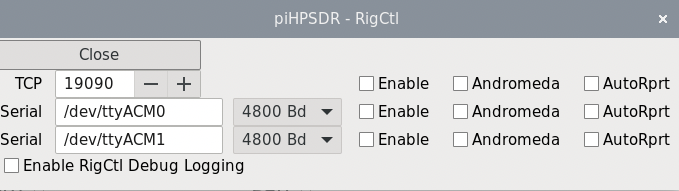
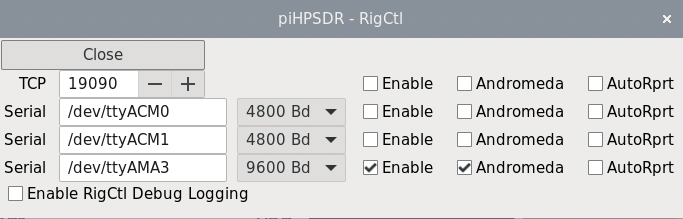
a) added a third serial line to RigCtl menu b) made the "VFO encoder divisor" universal c) added a "G2 Mk2 Panel" controller option

diff --git a/release/LatexManual/piHPSDR-Manual.tex b/release/LatexManual/piHPSDR-Manual.tex
@@ -254,6 +254,7 @@ single encoders. This special case is not covered in this manual.}
 on a single shaft), or a clone thereof.
 This controller is denoted Controller2 in the rest of this manual.}
 \item[G2 Front Panel]{Choose this if you have an ANAN G2 radio with a built-in controller.}
+\item[G2 Mk2 Panel]{Choose this if you have an ANAN G2 Mk2 radio (with LEDs in the front panel).}
 \end{itemize}
 
 \textbf{Attention.} Be sure to choose a controller only if such a controller is actually connected to your
@@ -1052,13 +1053,12 @@ It is possible to change the OC settings in the \bltt{OC} menu, and these settin
 preferences. Upon next program start, however, these preferences will again be overwritten as long
 as the \texttt{N2ADR} filter board is chosen.
 
-\rett{VFO Encoder Divisor:} This option is visible only if using a GPIO controller.
-It may happen that the
-encoders of the main VFO dial generate too many ticks per revolution, such that it is difficult
-to fine tune on a signal. If the VFO Encoder Divisor, as shown in the example, has a value of
-15, only every 15$^\textrm{th}$ tick will we processed. In my view, one should rather decrease
-the VFO step size than using a divisor value larger than one, but the option is left
-for backwards compatibility.
+\rett{VFO Encoder Divisor:} This option applies to VFO knobs in front panels, GPIO
+or MIDI controllers. In some cases, these encoders generate too many ticks per revolution,
+such that it is difficult to fine tune on a signal.
+If the VFO Encoder Divisor, as shown in the example, has a value of
+15, only every 15$^\textrm{th}$ tick will we processed. For the default value of 1,
+the divisor has no effect.
 
 \rett{Split} Use this checkbox to enable/disable Split mode. In Split mode, the frequency of
 the non-active receiver (when using two receivers) or the frequency of VFO-B (when using one
@@ -3065,12 +3065,11 @@ function, one is stuck and can no longer cycle through the function layers.
 \section{The \texttt{RigCtl} (Rig control, or CAT) Menu}
 
 piHPSDR has a built-in rig control or CAT (computer aided transceiver) facility. This can be used to control
-piHPSDR from
-other programs or even other computers. You can have up to three simultaneous CAT connections via TCP, and
-two additional CAT
-connections via serial lines (provided the host computer running piHPSDR has those serial interfaces
-available). It is
-also possible to use FIFOs (also known as named pipes) instead of real serial devices, which offers a
+piHPSDR from other programs or even other computers. You can have up to three simultaneous CAT connections
+via TCP, and three additional CAT connections via serial lines (provided the host computer running piHPSDR
+has those serial interfaces available). Note that on the new ANAN G2MkII radios, one of the serial lines
+is used for controlling the front panel.
+It is also possible to use FIFOs (also known as named pipes) instead of real serial devices, which offers a
 hardware-free connection
 of, say, a logbook program running on the same computer to piHPSDR, even if the logbook program cannot use
 TCP. On my Macintosh computer for example, using a named pipe and the Kenwood TS-2000 radio model,
@@ -3099,14 +3098,18 @@ is rather standard, using another one is only necessary if you are running more 
 SDR program on the host computer at the same time.
 This port number must match the port number used in the (digi-mode or logbook) program that wants to connect.
 
-\rett{Serial}. piHPSDR support up two two CAT connections over serial lines or named pipes.
+\rett{Serial}. piHPSDR support up two three CAT connections over serial lines or named pipes.
 In the text field, enter the device name of the serial port or the named pipe to use.
 Which names to use
-is highly operating system dependent. On a RaspPi, the built-in serial ports is usually referred to
-by the device file \texttt{/dev/ttyS0}. USB-to-serial
+is highly operating system dependent. On a RaspPi,  USB-to-serial
 adapters (which are nowadays the standard way to add serial ports to a computer) have names such as
 \texttt{/dev/ttyACM0} or \texttt{/dev/USB0} (on RaspPi) or \texttt{/dev/tty.usbserial-....} (on MacOS).
- piHPSDR does not try to ,,detect'' serial
+The serial port shown in the third line of Fig. \ref{fig:RigCtlMenu}, \texttt{/dev/ttyAMA3},
+is used on the ANAN G2-MkII radios for communicating with the front panel. If you chose 
+\rett{G2 Mk2 Panel} in the discovery menu, this port will be assigned by default to the third
+slot and it is also enabled, this can be changed in the RigCtl menu and will then also be written to
+the props file.
+ It is important to know that piHPSDR does not try to ,,detect'' serial
 ports, you must know the proper name (e.g. by looking at the contents of the \texttt{/dev} directory).
 Named pipes can be created everywhere in the file system hierarchy using the command
 ,,\texttt{mkdir -p <some\_arbitrary\_name>}''. Names pipes can be used for the communication between piHPSDR
@@ -3120,11 +3123,13 @@ To the right of the serial port text field, there is a pop-down menu for choosin
 Enabling and disabling can be done separately for the TCP subsystem and each of the serial
 connections.
 
-\rett{Andromeda}. This checkbox enables the connection for use with ANDROMEDA consoles. Serial lines are
+\rett{Andromeda}. This checkbox enables the connection for use with ANDROMEDA consoles
+of the G2-MkII front panel. Serial lines are
 forced to 9600 baud if enabled for ANDROMEDA. Furthermore, status changes of piHPSDR (e.g. RIT on/off) are
 automatically reported via ZZZI CAT commands (see Appendix \ref{sec:catcommands}). These messages are
-used by the ANDROMEDA console to switch LED indicators such that they reflect the current state
-of piHPSDR. Note that this flag is only inspected when the connection is opened. Serial CAT connections
+used by the ANDROMEDA console or the G2-MkII front panel
+to switch LED indicators such that they reflect the current state
+of piHPSDR. Note that the \rett{Andromeda} flag is only inspected when the connection is opened. Serial CAT connections
 are established when successfully opened upon program start or via this menu.
 TCP CAT connections are established when the \textit{client} successfully connects.
 

diff --git a/src/gpio.c b/src/gpio.c
@@ -523,14 +523,8 @@ static gpointer rotary_encoder_thread(gpointer data) {
         //t_print("%s: BOTTOM encoder %d pos=%d\n",__FUNCTION__,i,encoders[i].bottom_encoder_pos);
         action = encoders[i].bottom_encoder_function;
         mode = RELATIVE;
-
-        if (action == VFO && vfo_encoder_divisor > 1) {
-          val = encoders[i].bottom_encoder_pos / vfo_encoder_divisor;
-          encoders[i].bottom_encoder_pos = encoders[i].bottom_encoder_pos - (val * vfo_encoder_divisor);
-        } else {
-          val = encoders[i].bottom_encoder_pos;
-          encoders[i].bottom_encoder_pos = 0;
-        }
+        val = encoders[i].bottom_encoder_pos;
+        encoders[i].bottom_encoder_pos = 0;
 
         if (val != 0) { schedule_action(action, mode, val); }
       }
@@ -539,14 +533,8 @@ static gpointer rotary_encoder_thread(gpointer data) {
         //t_print("%s: TOP encoder %d pos=%d\n",__FUNCTION__,i,encoders[i].top_encoder_pos);
         action = encoders[i].top_encoder_function;
         mode = RELATIVE;
-
-        if (action == VFO && vfo_encoder_divisor > 1) {
-          val = encoders[i].top_encoder_pos / vfo_encoder_divisor;
-          encoders[i].top_encoder_pos = encoders[i].top_encoder_pos - (val * vfo_encoder_divisor);
-        } else {
-          val = encoders[i].top_encoder_pos;
-          encoders[i].top_encoder_pos = 0;
-        }
+        val = encoders[i].top_encoder_pos;
+        encoders[i].top_encoder_pos = 0;
 
         if (val != 0) { schedule_action(action, mode, val); }
       }
@@ -824,6 +812,7 @@ void gpio_default_encoder_actions(int ctrlr) {
 
   switch (ctrlr) {
   case NO_CONTROLLER:
+  case G2_V2:
   default:
     default_encoders = NULL;
     break;
@@ -863,6 +852,7 @@ void gpio_default_switch_actions(int ctrlr) {
   switch (ctrlr) {
   case NO_CONTROLLER:
   case CONTROLLER1:
+  case G2_V2:
   default:
     default_switches = NULL;
     break;
@@ -967,6 +957,15 @@ void gpio_set_defaults(int ctrlr) {
     switches = my_switches;
     break;
 
+  case G2_V2:
+    memcpy(my_encoders, encoders_no_controller, sizeof(my_encoders));
+    memcpy(my_switches, switches_no_controller, sizeof(my_switches));
+    encoders = my_encoders;
+    switches = my_switches;
+    break;
+    //
+    // There are no GPIO lines that the user can use
+    //
   case NO_CONTROLLER:
   default:
     //
@@ -1240,6 +1239,10 @@ static struct gpiod_line *setup_output_line(struct gpiod_chip *chip, int offset,
 
 #endif
 
+//
+// With a G2_V2 controller gpio_init() is essentially a no-op,
+// since no special lines are defined (have_button is not set)
+//
 int gpio_init() {
 #ifdef GPIO
   int ret = 0;
@@ -1376,12 +1379,12 @@ int gpio_init() {
     cwout_line = setup_output_line(chip, CWOUT_LINE, 1);
   }
 
-  if (have_button || controller != NO_CONTROLLER) {
+  if (have_button || (controller != NO_CONTROLLER && controller != G2_V2)) {
     monitor_thread_id = g_thread_new( "gpiod monitor", monitor_thread, NULL);
     t_print("%s: monitor_thread: id=%p\n", __FUNCTION__, monitor_thread_id);
   }
 
-  if (controller != NO_CONTROLLER) {
+  if (controller != NO_CONTROLLER && controller != G2_V2) {
     rotary_encoder_thread_id = g_thread_new( "encoders", rotary_encoder_thread, NULL);
     t_print("%s: rotary_encoder_thread: id=%p\n", __FUNCTION__, rotary_encoder_thread_id);
   }

diff --git a/src/radio.c b/src/radio.c
@@ -220,7 +220,7 @@ int auto_tune_end = 0;
 int enable_tx_inhibit = 0;
 int TxInhibit = 0;
 
-int vfo_encoder_divisor = 15;
+int vfo_encoder_divisor = 1;
 
 int protocol;
 int device;
@@ -1051,22 +1051,25 @@ void radio_start_radio() {
     SerialPorts[id].autoreporting = 0;
     snprintf(SerialPorts[id].port, sizeof(SerialPorts[id].port), "/dev/ttyACM%d", id);
   }
+  //
+  // If the controller is G2_V2, enable first serial port for the
+  // built-in ANDROMEDA-type panel on /dev/ttyAMA3. This will not be done
+  // if compiled without GPIO support but then you can fill  in by hand
+  // in the rigctl menu.
+  //
+  if (controller == G2_V2) {
+    SerialPorts[MAX_SERIAL-1].enable = 1;
+    SerialPorts[MAX_SERIAL-1].andromeda = 1;
+    SerialPorts[MAX_SERIAL-1].baud = B9600;
+    SerialPorts[MAX_SERIAL-1].autoreporting = 0;
+    snprintf(SerialPorts[MAX_SERIAL-1].port, sizeof(SerialPorts[MAX_SERIAL-1].port), "/dev/ttyAMA3");
+  }
 
   protocol = radio->protocol;
   device = radio->device;
 
   if (device == NEW_DEVICE_SATURN && (strcmp(radio->info.network.interface_name, "XDMA") == 0)) {
     have_saturn_xdma = 1;
-    //
-    // On a Saturn, enable /dev/ttyS0 as an Andromeda port by default.
-    // This will be overridden by the props file, if this setting has
-    // been changed meanwhile in the RIGCTL menu
-    //
-    SerialPorts[0].enable = 1;
-    SerialPorts[0].andromeda = 1;
-    SerialPorts[0].baud = B9600;
-    SerialPorts[0].autoreporting = 0;
-    snprintf(SerialPorts[0].port, sizeof(SerialPorts[0].port), "/dev/ttyS0");
   }
 
   if (device == DEVICE_METIS || device == DEVICE_OZY || device == NEW_DEVICE_ATLAS) {
@@ -1520,8 +1523,11 @@ void radio_start_radio() {
   }
 
   for (int id = 0; id < MAX_SERIAL; id++) {
+    //
+    // If serial port is enabled but no success, clear "enable" flag
+    //
     if (SerialPorts[id].enable) {
-      launch_serial_rigctl(id);
+      SerialPorts[id].enable = launch_serial_rigctl(id);
     }
   }
 
@@ -2394,11 +2400,12 @@ static void radio_restore_state() {
   t_print("%s: path=%s\n", __FUNCTION__, property_path);
   g_mutex_lock(&property_mutex);
   loadProperties(property_path);
+
   //
   // For consistency, all variables should get default values HERE,
-  // but this is too much for the moment. TODO: initialize at least all
-  // variables that are needed if the radio is remote
+  // but this is too much for the moment.
   //
+
   GetPropI0("WindowPositionX",                               window_x_pos);
   GetPropI0("WindowPositionY",                               window_y_pos);
   GetPropI0("display_zoompan",                               display_zoompan);

diff --git a/src/actions.c b/src/actions.c
@@ -1616,8 +1616,15 @@ int process_action(void *data) {
     break;
 
   case VFO:
+    // respect the VFO encoder divisor
     if (a->mode == RELATIVE && !locked) {
-      vfo_step(a->val);
+      static int acc = 0;
+      acc += (int) a->val;
+      int new = acc / vfo_encoder_divisor;
+      if (new != 0) {
+        vfo_step(new);
+        acc -= new*vfo_encoder_divisor;
+      }
     }
 
     break;
@@ -1641,15 +1648,29 @@ int process_action(void *data) {
     break;
 
   case VFOA:
+    // respect the VFO encoder divisor
     if (a->mode == RELATIVE && !locked) {
-      vfo_id_step(0, (int)a->val);
+      static int acc = 0;
+      acc += (int) a->val;
+      int new = acc / vfo_encoder_divisor;
+      if (new != 0) {
+        vfo_id_step(0, new);
+        acc -= new*vfo_encoder_divisor;
+      }
     }
 
     break;
 
   case VFOB:
+    // respect the VFO encoder divisor
     if (a->mode == RELATIVE && !locked) {
-      vfo_id_step(1, (int)a->val);
+      static int acc = 0;
+      acc += (int) a->val;
+      int new = acc / vfo_encoder_divisor;
+      if (new != 0) {
+        vfo_id_step(1, new);
+        acc -= new*vfo_encoder_divisor;
+      }
     }
 
     break;

diff --git a/src/radio_menu.c b/src/radio_menu.c
@@ -101,12 +101,9 @@ static void rx_gain_calibration_value_changed_cb(GtkWidget *widget, gpointer dat
   rx_gain_calibration = gtk_spin_button_get_value_as_int(GTK_SPIN_BUTTON(widget));
 }
 
-#ifdef GPIO
 static void vfo_divisor_value_changed_cb(GtkWidget *widget, gpointer data) {
   vfo_encoder_divisor = gtk_spin_button_get_value_as_int(GTK_SPIN_BUTTON(widget));
 }
-
-#endif
 
 static void ptt_ring_cb(GtkWidget *widget, gpointer data) {
   if (gtk_toggle_button_get_active(GTK_TOGGLE_BUTTON(widget))) {
@@ -590,7 +587,6 @@ void radio_menu(GtkWidget *parent) {
   if (row > max_row) { max_row = row; }
 
   row = max_row;
-#ifdef GPIO
   label = gtk_label_new("VFO Encoder Divisor:");
   gtk_widget_set_name(label, "boldlabel");
   gtk_widget_set_halign(label, GTK_ALIGN_END);
@@ -600,7 +596,6 @@ void radio_menu(GtkWidget *parent) {
   gtk_grid_attach(GTK_GRID(grid), vfo_divisor, 2, row, 1, 1);
   g_signal_connect(vfo_divisor, "value_changed", G_CALLBACK(vfo_divisor_value_changed_cb), NULL);
   row++;
-#endif
 
   // cppcheck-suppress knownConditionTrueFalse
   if (row > max_row) { max_row = row; }

diff --git a/src/new_menu.c b/src/new_menu.c
@@ -698,7 +698,7 @@ void new_menu() {
 #endif
 #ifdef GPIO
 
-    if (controller != NO_CONTROLLER) {
+    if (controller != NO_CONTROLLER && controller != G2_V2) {
       GtkWidget *encoders_b = gtk_button_new_with_label("Encoders");
       g_signal_connect (encoders_b, "button-press-event", G_CALLBACK(encoder_cb), NULL);
       gtk_grid_attach(GTK_GRID(grid), encoders_b, col, row, 1, 1);
@@ -708,7 +708,7 @@ void new_menu() {
     //
     // Note the switches of CONTROLLER1 are assigned via the Toolbar menu
     //
-    if (controller != NO_CONTROLLER && controller != CONTROLLER1) {
+    if (controller != NO_CONTROLLER && controller != CONTROLLER1 && controller != G2_V2) {
       GtkWidget *switches_b = gtk_button_new_with_label("Switches");
       g_signal_connect (switches_b, "button-press-event", G_CALLBACK(switch_cb), NULL);
       gtk_grid_attach(GTK_GRID(grid), switches_b, col, row, 1, 1);

diff --git a/src/discovery.c b/src/discovery.c
@@ -526,6 +526,7 @@ void discovery() {
   gtk_combo_box_text_append(GTK_COMBO_BOX_TEXT(gpio), NULL, "Controller2 V1");
   gtk_combo_box_text_append(GTK_COMBO_BOX_TEXT(gpio), NULL, "Controller2 V2");
   gtk_combo_box_text_append(GTK_COMBO_BOX_TEXT(gpio), NULL, "G2 Front Panel");
+  gtk_combo_box_text_append(GTK_COMBO_BOX_TEXT(gpio), NULL, "G2 Mk2 Panel");
   my_combo_attach(GTK_GRID(grid), gpio, 0, row, 1, 1);
   gtk_combo_box_set_active(GTK_COMBO_BOX(gpio), controller);
   g_signal_connect(gpio, "changed", G_CALLBACK(gpio_changed_cb), NULL);

diff --git a/src/configure.c b/src/configure.c
@@ -69,6 +69,7 @@ void configure_gpio(GtkWidget *parent) {
 
   switch (controller) {
   case NO_CONTROLLER:
+  case G2_V2:
     max_encoders = 0;
     break;
 
@@ -193,6 +194,7 @@ void configure_gpio(GtkWidget *parent) {
 
   switch (controller) {
   case NO_CONTROLLER:
+  case G2_V2:
     max_switches = 0;
     break;
 

diff --git a/src/rigctl.h b/src/rigctl.h
@@ -33,8 +33,8 @@ struct _SERIALPORT {
 
 typedef struct _SERIALPORT SERIALPORT;
 
-#define MAX_SERIAL 2
-extern SERIALPORT SerialPorts[2];
+#define MAX_SERIAL 3
+extern SERIALPORT SerialPorts[MAX_SERIAL];
 extern gboolean rigctl_debug;
 
 void launch_tcp_rigctl (void);

diff --git a/src/main.h b/src/main.h
@@ -27,7 +27,8 @@ enum _controller_enum {
   CONTROLLER1,
   CONTROLLER2_V1,
   CONTROLLER2_V2,
-  G2_FRONTPANEL
+  G2_FRONTPANEL,
+  G2_V2
 };
 
 extern int controller;
